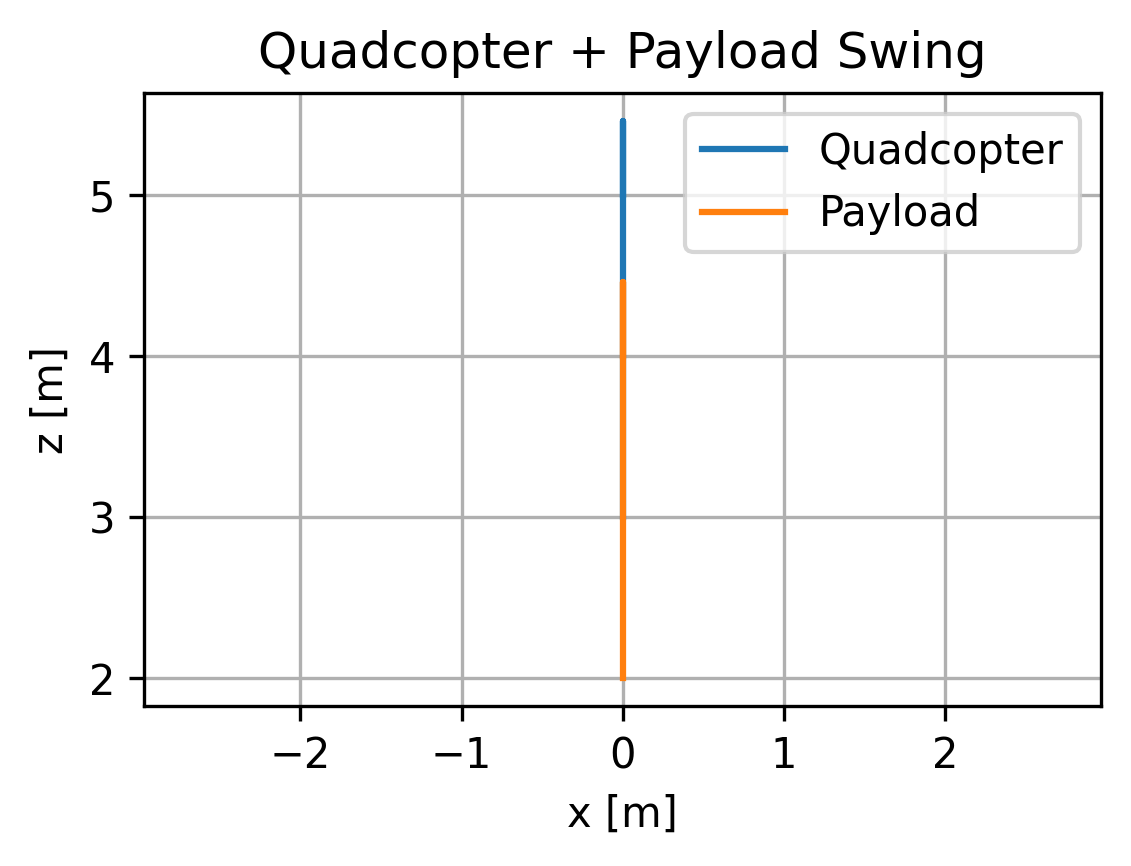
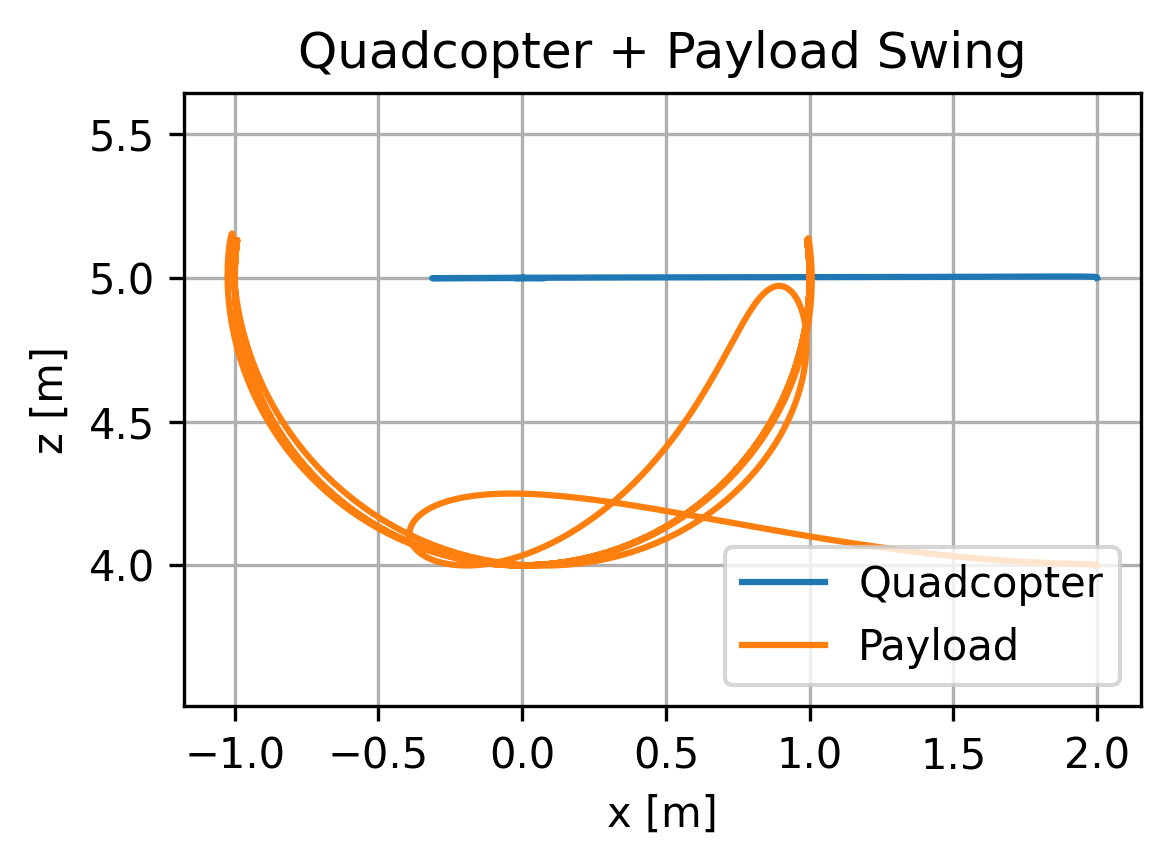
update gains

diff --git a/sim/simulation.py b/sim/simulation.py
@@ -18,10 +18,18 @@ def rk4_step(func, state, control, dt, params):
 # ----------------------------------------------------------------------
 # Simulation main
 def run_simulation(params, T, dt):
-    # Initial state [xq, zq, theta, xq_dot, zq_dot, theta_dot, l, phi, l_dot, phi_dot]
+    # Initial state 
     state = np.array([
-        0.0, 3.0, 0.0, 0.0, 0.0, 0.0,
-        params["payload"]["rope_length"], 0.0, 0.0, 0.0
+        2.0, #x_q
+        5.0, #z_q
+        0.0, #theta
+        0.0, #x_q_dot
+        0.0, #z_q_dot
+        0.0, #theta_dot
+        params["payload"]["rope_length"], #l
+        0.0, #phi
+        0.0, #l_dot
+        0.0 #phi_dot
     ], dtype=float)
 
     # Parameters
@@ -42,7 +50,7 @@ def run_simulation(params, T, dt):
     # Load controller gains
     Kp_x, Ki_x, Kd_x = float(params["pid"]["x"]["Kp"]), float(params["pid"]["x"]["Ki"]), float(params["pid"]["x"]["Kd"])
     u_min_x, u_max_x = float(params["pid"]["x"]["u_min"]), float(params["pid"]["x"]["u_max"])
-
+   
     Kp_z, Ki_z, Kd_z = float(params["pid"]["z"]["Kp"]), float(params["pid"]["z"]["Ki"]), float(params["pid"]["z"]["Kd"])
     u_min_z, u_max_z = float(params["pid"]["z"]["u_min"]), float(params["pid"]["z"]["u_max"])
 
